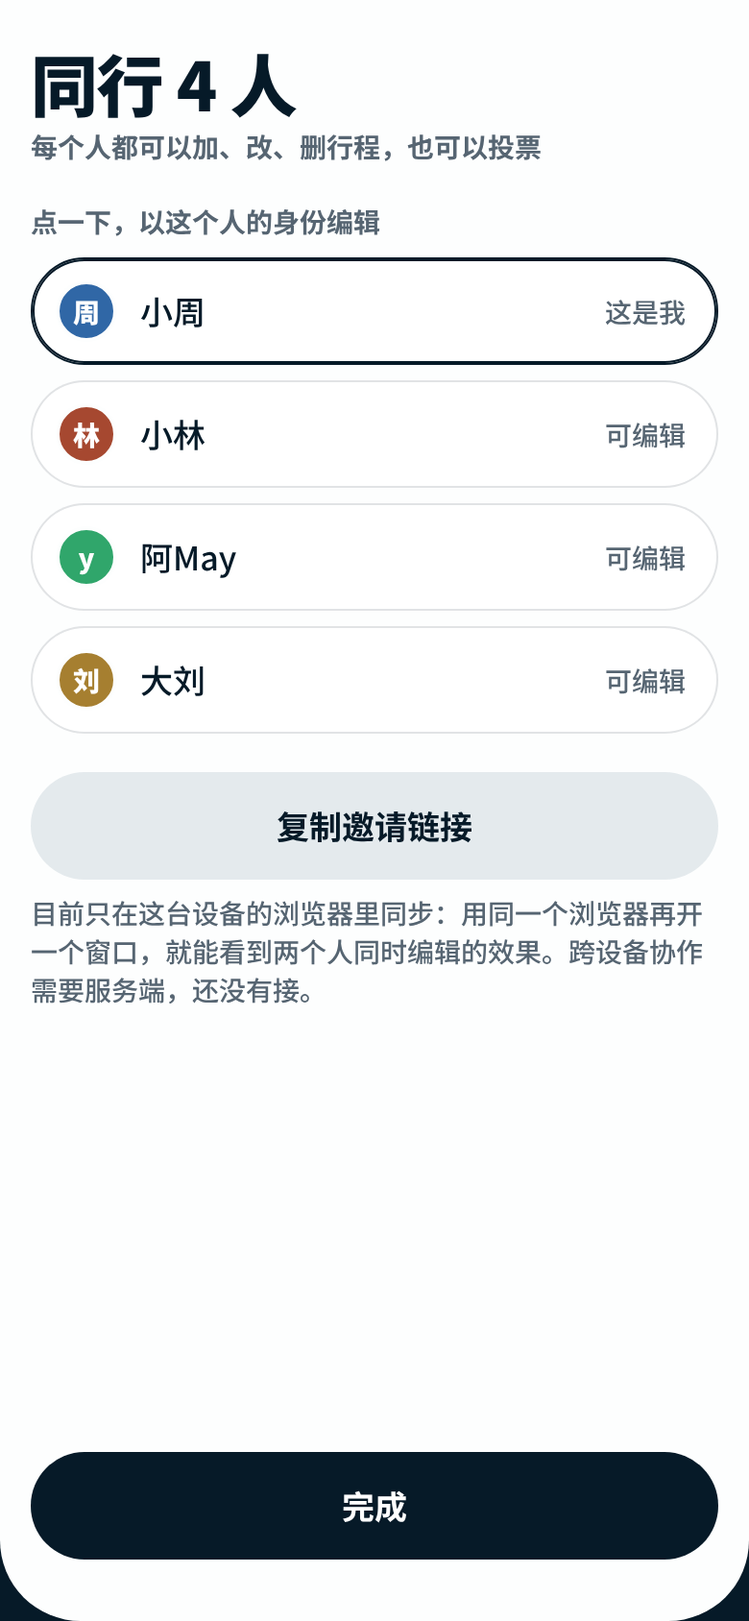
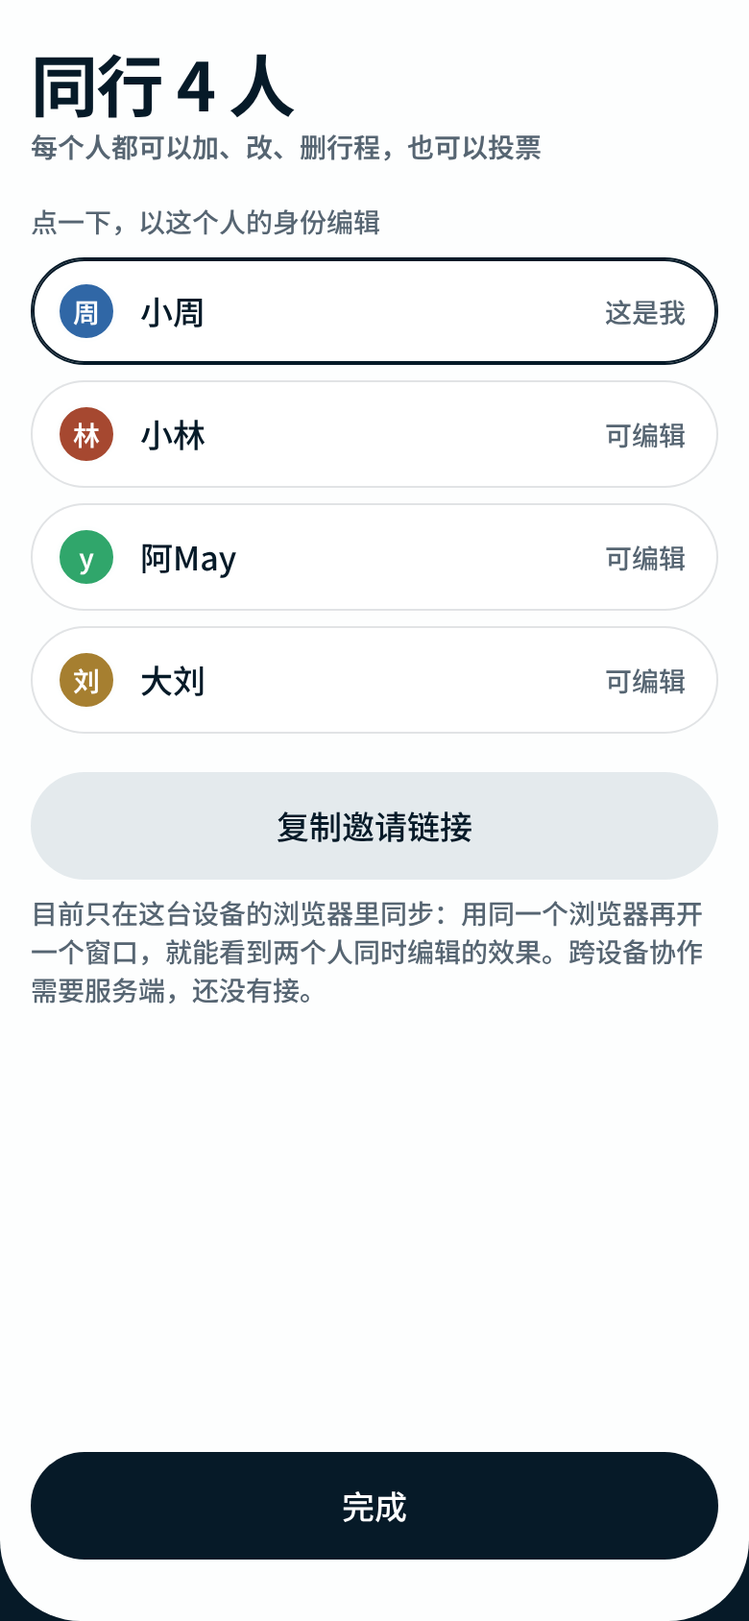
Add detail rules and apply them to both app runs
docs/design-details.md records eight fixed rules from design review:
concentric radii, one separator per surface, three-part dates, baseline
currency and units, scarce bold, one typeface per screen, real images
over stickers, and avatars.

gate-app now warns on border plus shadow on one element, heavy weights,
bold share above a quarter, and mixed serif and sans. Both runs are
adjusted until the warnings clear.

Claude-Session: https://claude.ai/code/session_015qE4q18Kjn7qFCdSSsLhYp

diff --git a/ui-workflow/runs/trip-together/app/ui/ui.css b/ui-workflow/runs/trip-together/app/ui/ui.css
@@ -7,7 +7,7 @@
   --card: var(--color-background-card); --chip: var(--color-background-muted);
   --line: color-mix(in srgb, var(--ink) 12%, transparent);
   --warm: #d9485f; --warm-2: #e08a3c; --sky: #7cc4ea;
-  --r-card: var(--radius-page); --r-thumb: var(--radius-container); --r-ctl: var(--radius-full);
+  --r-card: var(--radius-page); /* D01 同心：里层 = 外层 − 间距 */ --r-thumb: calc(var(--r-card) - var(--spacing-3)); --r-ctl: var(--radius-full);
   --dock: var(--ink); --on-dock: #fff;
   --ease: cubic-bezier(0.22, 1, 0.36, 1);
   height: 100dvh; display: flex; flex-direction: column; background: var(--dock); color: var(--ink);
@@ -21,21 +21,24 @@
 .t-page > .t-grow { flex-shrink: 1; }
 .t-dock { display: flex; justify-content: center; padding: var(--spacing-3) var(--spacing-4) calc(env(safe-area-inset-bottom, 0px) + var(--spacing-4)); }
 .t-switch { display: grid; grid-auto-flow: column; grid-auto-columns: 1fr; gap: var(--spacing-1); padding: var(--spacing-1); border-radius: var(--r-ctl); background: color-mix(in srgb, var(--on-dock) 10%, transparent); min-width: 60%; }
-.t-switch button { appearance: none; border: 0; background: none; min-height: var(--spacing-11); padding: 0 var(--spacing-5); border-radius: var(--r-ctl); color: var(--on-dock); font-weight: 700; display: flex; align-items: center; justify-content: center; gap: var(--spacing-2); }
+.t-switch button { appearance: none; border: 0; background: none; min-height: var(--spacing-11); padding: 0 var(--spacing-5); border-radius: var(--r-ctl); color: var(--on-dock); font-weight: 500; display: flex; align-items: center; justify-content: center; gap: var(--spacing-2); }
 .t-screen .t-switch button { color: var(--on-dock); }
 .t-screen .t-switch button[aria-current='page'] { background: var(--card); color: var(--ink); box-shadow: var(--shadow-low); }
-.t-switch b { font-weight: 700; font-size: var(--text-supporting-size); opacity: 0.75; }
+.t-switch b { font-weight: 500; font-size: var(--text-supporting-size); opacity: 0.75; }
 .t-stack { display: flex; flex-direction: column; }
 .t-row { display: flex; align-items: center; justify-content: space-between; gap: var(--spacing-3); }
 .t-grow { flex: 1; }
 
 /* 头部 */
-.t-title { margin: 0; font-size: var(--text-display-3-size); line-height: 1.1; font-weight: 900; letter-spacing: -0.02em; }
+.t-title { margin: 0; font-size: var(--text-display-3-size); line-height: 1.1; font-weight: 700; letter-spacing: -0.02em; }
 .t-sub { margin: 0; font-size: var(--text-supporting-size); font-weight: 600; color: var(--ink-2); }
-.t-h2 { margin: 0; font-size: var(--text-heading-3-size); line-height: 1.3; font-weight: 800; }
+.t-h2 { margin: 0; font-size: var(--text-heading-3-size); line-height: 1.3; font-weight: 600; }
 .t-note { margin: 0; font-size: var(--text-supporting-size); color: var(--ink-2); }
+.t-date { display: inline-flex; align-items: baseline; font-variant-numeric: tabular-nums; }
+.t-date i { font-style: normal; font-size: 0.8em; color: var(--ink-2); margin-inline: 2px; }
+.t-day[aria-pressed='true'] .t-date i { color: inherit; opacity: 0.7; }
 .t-avatars { appearance: none; border: 0; background: none; display: flex; align-items: center; padding: 0; min-height: var(--spacing-11); }
-.t-avatar { flex: none; display: grid; place-items: center; width: var(--spacing-8); height: var(--spacing-8); border-radius: 50%; font-size: var(--text-supporting-size); font-weight: 800; color: #fff; background: hsl(var(--hue) 55% 42%); border: 2px solid var(--color-background-body); margin-inline-start: calc(var(--spacing-2) * -1); }
+.t-avatar { flex: none; display: grid; place-items: center; width: var(--spacing-8); height: var(--spacing-8); border-radius: 50%; font-size: var(--text-supporting-size); font-weight: 600; color: #fff; background: hsl(var(--hue) 55% 42%); border: 2px solid var(--color-background-body); margin-inline-start: calc(var(--spacing-2) * -1); }
 .t-avatar:first-child { margin-inline-start: 0; }
 .t-avatar[data-size='sm'] { width: var(--spacing-6); height: var(--spacing-6); font-size: 0.6875rem; }
 .t-avatar[data-me='true'] { outline: 2px solid var(--ink); outline-offset: 1px; }
@@ -44,7 +47,7 @@
 
 /* 天 */
 .t-days { display: flex; gap: var(--spacing-2); overflow-x: auto; scrollbar-width: none; margin: 0 calc(var(--spacing-4) * -1); padding: 0 var(--spacing-4); }
-.t-day { appearance: none; flex: none; display: flex; flex-direction: column; align-items: center; justify-content: center; min-width: var(--spacing-12); min-height: calc(var(--spacing-7) * 2); padding: var(--spacing-1) var(--spacing-3); border-radius: var(--r-thumb); border: 1.5px solid var(--line); background: var(--card); font-weight: 800; line-height: 1.2; }
+.t-day { appearance: none; flex: none; display: flex; flex-direction: column; align-items: center; justify-content: center; min-width: var(--spacing-12); min-height: calc(var(--spacing-7) * 2); padding: var(--spacing-1) var(--spacing-3); border-radius: var(--r-thumb); border: 1.5px solid var(--line); background: var(--card); font-weight: 600; line-height: 1.2; }
 .t-day small { font-size: 0.6875rem; font-weight: 600; color: var(--ink-2); }
 .t-screen .t-day[aria-pressed='true'] { background: var(--ink); border-color: var(--ink); color: #fff; }
 .t-day[aria-pressed='true'] small { color: inherit; opacity: 0.8; }
@@ -52,34 +55,34 @@
 /* 路线：一条虚线把每一站串起来 */
 .t-route { position: relative; display: flex; flex-direction: column; gap: var(--spacing-2); }
 .t-route::before { content: ''; position: absolute; inset-block: var(--spacing-6); inset-inline-start: calc(var(--spacing-4) + var(--spacing-7)); border-inline-start: 2px dotted var(--line); }
-.t-stop { position: relative; appearance: none; text-align: start; display: flex; align-items: center; gap: var(--spacing-3); width: 100%; padding: var(--spacing-3) var(--spacing-4) var(--spacing-3) var(--spacing-3); border-radius: var(--r-card); border: 1.5px solid var(--line); background: var(--card); box-shadow: var(--shadow-low), inset 0 1px 0 #fff; transition: transform 0.25s var(--ease); }
+.t-stop { position: relative; appearance: none; text-align: start; display: flex; align-items: center; gap: var(--spacing-3); width: 100%; padding: var(--spacing-3) var(--spacing-4) var(--spacing-3) var(--spacing-3); border-radius: var(--r-card); border: 0; background: var(--card); box-shadow: var(--shadow-low); transition: transform 0.25s var(--ease); }
 .t-stop:active { transform: scale(0.985); }
 .t-thumb { position: relative; flex: none; width: calc(var(--spacing-8) * 2); height: calc(var(--spacing-8) * 2); border-radius: var(--r-thumb); background: var(--chip); display: grid; place-items: center; }
-.t-thumb i { position: absolute; inset-block-end: calc(var(--spacing-1) * -1); inset-inline-end: calc(var(--spacing-1) * -1); display: grid; place-items: center; width: var(--spacing-6); height: var(--spacing-6); border-radius: 50%; background: var(--ink); color: #fff; font-style: normal; font-size: 0.75rem; font-weight: 800; border: 2px solid var(--card); }
+.t-thumb i { position: absolute; inset-block-end: calc(var(--spacing-1) * -1); inset-inline-end: calc(var(--spacing-1) * -1); display: grid; place-items: center; width: var(--spacing-6); height: var(--spacing-6); border-radius: 50%; background: var(--ink); color: #fff; font-style: normal; font-size: 0.75rem; font-weight: 600; border: 2px solid var(--card); }
 .t-stop-main { flex: 1; min-width: 0; display: flex; flex-direction: column; gap: var(--spacing-0-5); }
-.t-name { margin: 0; font-size: var(--text-large-size); font-weight: 800; line-height: 1.25; }
-.t-time { font-size: var(--text-supporting-size); font-weight: 700; color: var(--ink-2); text-decoration: underline; text-underline-offset: 0.2em; font-variant-numeric: tabular-nums; }
+.t-name { margin: 0; font-size: var(--text-large-size); font-weight: 600; line-height: 1.25; }
+.t-time { font-size: var(--text-supporting-size); font-weight: 500; color: var(--ink-2); text-decoration: underline; text-underline-offset: 0.2em; font-variant-numeric: tabular-nums; }
 .t-stop-note { margin: 0; font-size: var(--text-supporting-size); color: var(--ink-2); overflow: hidden; text-overflow: ellipsis; white-space: nowrap; }
 .t-gap { position: relative; display: flex; align-items: center; gap: var(--spacing-2); padding-inline-start: calc(var(--spacing-4) + var(--spacing-1-5)); }
 .t-plus { appearance: none; display: grid; place-items: center; width: var(--spacing-11); height: var(--spacing-11); border: 0; background: none; padding: 0; }
-.t-plus i { display: grid; place-items: center; width: var(--spacing-8); height: var(--spacing-8); border-radius: var(--radius-element); border: 1.5px solid var(--line); background: var(--card); box-shadow: var(--shadow-low); }
+.t-plus i { display: grid; place-items: center; width: var(--spacing-8); height: var(--spacing-8); border-radius: var(--radius-element); border: 1.5px solid var(--line); background: var(--card); }
 .t-empty { display: flex; flex-direction: column; align-items: flex-start; gap: var(--spacing-3); padding: var(--spacing-6) var(--spacing-2); }
 
 /* 想去：虚线卡，名字用暖色 */
 .t-idea { display: flex; flex-direction: column; gap: var(--spacing-3); padding: var(--spacing-4); border-radius: var(--r-card); border: 1.5px dashed color-mix(in srgb, var(--ink) 28%, transparent); background: var(--card); }
 .t-idea-head { display: flex; align-items: center; gap: var(--spacing-3); }
 .t-idea .t-name { background: linear-gradient(90deg, var(--warm), var(--warm-2)); -webkit-background-clip: text; background-clip: text; color: transparent; }
-.t-votes { display: flex; align-items: center; gap: var(--spacing-2); white-space: nowrap; font-size: var(--text-supporting-size); font-weight: 700; color: var(--ink-2); }
+.t-votes { display: flex; align-items: center; gap: var(--spacing-2); white-space: nowrap; font-size: var(--text-supporting-size); font-weight: 500; color: var(--ink-2); }
 .t-actions { display: grid; grid-template-columns: 1fr 1fr; gap: var(--spacing-2); }
-.t-pill { appearance: none; justify-content: center; white-space: nowrap; min-height: var(--spacing-11); padding: 0 var(--spacing-4); border-radius: var(--r-ctl); border: 1.5px solid var(--line); background: var(--card); font-weight: 700; font-size: var(--text-supporting-size); display: inline-flex; align-items: center; gap: var(--spacing-1-5); box-shadow: var(--shadow-low); }
+.t-pill { appearance: none; justify-content: center; white-space: nowrap; min-height: var(--spacing-11); padding: 0 var(--spacing-4); border-radius: var(--r-ctl); border: 1.5px solid var(--line); background: var(--card); font-weight: 500; font-size: var(--text-supporting-size); display: inline-flex; align-items: center; gap: var(--spacing-1-5); }
 .t-screen .t-pill[aria-pressed='true'] { background: var(--ink); border-color: var(--ink); color: #fff; }
-.t-icon { appearance: none; flex: none; display: grid; place-items: center; width: var(--spacing-11); height: var(--spacing-11); border-radius: var(--radius-element); border: 1.5px solid var(--line); background: var(--card); box-shadow: var(--shadow-low); }
+.t-icon { appearance: none; flex: none; display: grid; place-items: center; width: var(--spacing-11); height: var(--spacing-11); border-radius: var(--radius-element); border: 1.5px solid var(--line); background: var(--card); }
 .t-kinds { display: flex; gap: var(--spacing-2); flex-wrap: wrap; }
-.t-kind { appearance: none; display: flex; align-items: center; gap: var(--spacing-1-5); min-height: var(--spacing-11); padding: 0 var(--spacing-3) 0 var(--spacing-2); border-radius: var(--r-ctl); border: 1.5px solid var(--line); background: var(--card); font-weight: 700; font-size: var(--text-supporting-size); }
+.t-kind { appearance: none; display: flex; align-items: center; gap: var(--spacing-1-5); min-height: var(--spacing-11); padding: 0 var(--spacing-3) 0 var(--spacing-2); border-radius: var(--r-ctl); border: 1.5px solid var(--line); background: var(--card); font-weight: 500; font-size: var(--text-supporting-size); }
 .t-screen .t-kind[aria-pressed='true'] { background: var(--ink); border-color: var(--ink); color: #fff; }
-.t-label { margin: 0; font-size: var(--text-supporting-size); font-weight: 700; color: var(--ink-2); }
+.t-label { margin: 0; font-size: var(--text-supporting-size); font-weight: 500; color: var(--ink-2); }
 .t-people { list-style: none; margin: 0; padding: 0; display: flex; flex-direction: column; gap: var(--spacing-2); }
-.t-person { appearance: none; text-align: start; width: 100%; display: flex; align-items: center; gap: var(--spacing-3); min-height: calc(var(--spacing-7) * 2); padding: var(--spacing-2) var(--spacing-4) var(--spacing-2) var(--spacing-3); border-radius: var(--r-card); border: 1.5px solid var(--line); background: var(--card); font-weight: 700; }
+.t-person { appearance: none; text-align: start; width: 100%; display: flex; align-items: center; gap: var(--spacing-3); min-height: calc(var(--spacing-7) * 2); padding: var(--spacing-2) var(--spacing-4) var(--spacing-2) var(--spacing-3); border-radius: var(--r-card); border: 1.5px solid var(--line); background: var(--card); font-weight: 500; }
 .t-person[aria-pressed='true'] { border-color: var(--ink); box-shadow: inset 0 0 0 1px var(--ink); }
 .t-person em { margin-inline-start: auto; font-style: normal; font-size: var(--text-supporting-size); color: var(--ink-2); }
 .t-sticker { display: block; flex: none; }

diff --git a/ui-workflow/runs/driving-quiz/app/ui/ui.css b/ui-workflow/runs/driving-quiz/app/ui/ui.css
@@ -2,7 +2,7 @@
    参考 Mobbin 上 Commons 的答题屏，颜色量自高清图，写在 theme/theme.ts。
    规范用 Astryx：间距 --spacing-*、圆角 --radius-*、字号 --text-*-size。这里不出现刻度以外的尺寸。 */
 .q-screen {
-  --serif: 'Noto Serif SC', 'Songti SC', serif;
+  --serif: var(--sans); /* D06：一屏一种字体，不混排衬线 */
   --sans: 'Noto Sans SC', system-ui, -apple-system, sans-serif;
   font-family: var(--sans);
   --ink: var(--color-text-primary);
@@ -24,7 +24,7 @@
 /* 章节 */
 .q-chapters { display: flex; gap: var(--spacing-2); overflow-x: auto; scrollbar-width: none; margin: 0 calc(var(--spacing-4) * -1); padding: 0 var(--spacing-4); }
 .q-chapter { appearance: none; font: inherit; cursor: pointer; flex: none; display: flex; align-items: center; gap: var(--spacing-2); min-height: var(--spacing-11); padding: var(--spacing-1) var(--spacing-3) var(--spacing-1) var(--spacing-2); border: 0; border-radius: var(--radius-container); background: var(--block); color: var(--ink); font-size: var(--text-supporting-size); font-weight: 600; white-space: nowrap; }
-.q-chapter b { font-weight: 600; font-variant-numeric: tabular-nums; color: var(--ink-2); }
+.q-chapter b { font-weight: 500; font-variant-numeric: tabular-nums; color: var(--ink-2); }
 .q-chapter[aria-pressed='true'] { background: var(--ink); color: var(--color-background-body); }
 .q-chapter[aria-pressed='true'] b { color: inherit; }
 
@@ -33,9 +33,9 @@
 .q-bar > i { display: block; height: 100%; border-radius: inherit; background: var(--color-accent); transition: width 0.5s var(--ease); }
 
 /* 题 */
-.q-count { margin: 0; font-size: var(--text-supporting-size); font-weight: 700; letter-spacing: 0.06em; color: var(--ink-2); font-variant-numeric: tabular-nums; }
-.q-text { margin: 0; font-size: var(--text-heading-1-size); line-height: 1.24; font-weight: 900; letter-spacing: -0.02em; text-wrap: pretty; }
-.q-text[data-size='title'] { font-size: var(--text-heading-3-size); line-height: 1.4; font-weight: 700; letter-spacing: -0.01em; }
+.q-count { margin: 0; font-size: var(--text-supporting-size); font-weight: 500; letter-spacing: 0.06em; color: var(--ink-2); font-variant-numeric: tabular-nums; }
+.q-text { margin: 0; font-size: var(--text-heading-1-size); line-height: 1.3; font-weight: 600; letter-spacing: -0.02em; text-wrap: pretty; }
+.q-text[data-size='title'] { font-size: var(--text-heading-3-size); line-height: 1.4; font-weight: 600; letter-spacing: -0.01em; }
 .q-enter { animation: q-in 0.4s var(--ease); }
 @keyframes q-in { from { opacity: 0; transform: translateY(var(--spacing-2)); } }
 
@@ -43,9 +43,9 @@
 .q-plates { display: flex; flex-direction: column; gap: var(--spacing-3); }
 .q-plate { appearance: none; text-align: start; cursor: pointer; display: flex; align-items: baseline; gap: var(--spacing-3); min-height: calc(var(--spacing-7) * 2); padding: var(--spacing-4); border: 0; border-radius: var(--radius-container); background: var(--block); color: var(--ink); font-family: var(--serif); font-size: var(--text-large-size); line-height: 1.4; transition: transform 0.25s var(--ease), background 0.2s, color 0.2s; }
 .q-plate:active:not(:disabled) { transform: scale(0.985); }
-.q-plate i { flex: none; font-style: normal; font-family: var(--sans); font-size: var(--text-supporting-size); font-weight: 900; color: var(--ink-2); }
+.q-plate i { flex: none; font-style: normal; font-family: var(--sans); font-size: var(--text-supporting-size); font-weight: 500; color: var(--ink-2); }
 .q-plate span { flex: 1; }
-.q-plate em { flex: none; font-style: normal; font-family: var(--sans); font-size: var(--text-supporting-size); font-weight: 700; }
+.q-plate em { flex: none; font-style: normal; font-family: var(--sans); font-size: var(--text-supporting-size); font-weight: 500; }
 .q-plate[data-state='right'] { background: var(--ink); color: var(--color-background-body); }
 .q-plate[data-state='right'] i { color: inherit; }
 .q-plate[data-state='wrong'] { background: var(--color-error-muted); }
@@ -58,25 +58,25 @@
 .q-why p { margin: 0; }
 
 /* 按钮 */
-.q-btn { appearance: none; font: inherit; cursor: pointer; width: 100%; min-height: calc(var(--spacing-7) * 2); padding: 0 var(--spacing-6); border: 0; border-radius: var(--radius-container); background: var(--ink); color: var(--color-background-body); font-size: var(--text-body-size); font-weight: 700; transition: transform 0.25s var(--ease); }
+.q-btn { appearance: none; font: inherit; cursor: pointer; width: 100%; min-height: calc(var(--spacing-7) * 2); padding: 0 var(--spacing-6); border: 0; border-radius: var(--radius-container); background: var(--ink); color: var(--color-background-body); font-size: var(--text-body-size); font-weight: 500; transition: transform 0.25s var(--ease); }
 .q-btn:active { transform: scale(0.985); }
 .q-btn[data-kind='quiet'] { background: var(--block); color: var(--ink); }
 .q-link { appearance: none; font: inherit; cursor: pointer; border: 0; background: none; color: var(--ink-2); min-height: var(--spacing-11); padding: 0 var(--spacing-2); font-size: var(--text-supporting-size); font-weight: 600; text-decoration: underline; text-underline-offset: 0.2em; }
 .q-screen button:focus-visible { outline: 2px solid var(--color-accent); outline-offset: 2px; }
 
 /* 标题与说明 */
-.q-title { margin: 0; font-size: var(--text-display-3-size); line-height: 1.12; font-weight: 900; letter-spacing: -0.03em; }
+.q-title { margin: 0; font-size: var(--text-display-3-size); line-height: 1.12; font-weight: 700; letter-spacing: -0.03em; }
 .q-note { margin: 0; font-size: var(--text-supporting-size); line-height: 1.5; color: var(--ink-2); }
 .q-body { margin: 0; font-family: var(--serif); font-size: var(--text-large-size); line-height: 1.5; }
 .q-hero { display: flex; flex-direction: column; align-items: flex-start; gap: var(--spacing-4); }
 .q-facts { list-style: none; margin: 0; padding: 0; display: flex; flex-direction: column; border-top: 2px solid var(--ink); }
 .q-facts li { display: flex; justify-content: space-between; gap: var(--spacing-3); padding: var(--spacing-3) 0; border-bottom: 1px solid var(--line); }
 .q-facts span { color: var(--ink-2); }
-.q-facts b { font-weight: 900; font-variant-numeric: tabular-nums; }
+.q-facts b { font-weight: 700; font-variant-numeric: tabular-nums; }
 
 /* 答卷 */
 .q-sheet-head { display: flex; align-items: center; justify-content: space-between; }
-.q-timer { font-size: var(--text-heading-3-size); font-weight: 900; font-variant-numeric: tabular-nums; }
+.q-timer { font-size: var(--text-heading-3-size); font-weight: 700; font-variant-numeric: tabular-nums; }
 .q-options { display: flex; flex-direction: column; border-top: 2px solid var(--ink); }
 .q-option { appearance: none; text-align: start; cursor: pointer; display: flex; align-items: center; gap: var(--spacing-3); min-height: calc(var(--spacing-7) * 2); padding: var(--spacing-3) 0; border: 0; border-bottom: 1px solid var(--line); background: none; color: var(--ink); font-family: var(--serif); font-size: var(--text-large-size); line-height: 1.4; }
 .q-option i { flex: none; width: var(--spacing-5); height: var(--spacing-5); border-radius: 50%; border: 2px solid var(--ink); }
@@ -85,9 +85,9 @@
 .q-nav { display: grid; grid-template-columns: 1fr 2fr; gap: var(--spacing-3); padding: var(--spacing-3) var(--spacing-4) calc(env(safe-area-inset-bottom, 0px) + var(--spacing-4)); }
 
 /* 成绩 */
-.q-score { margin: 0; font-size: var(--text-display-1-size); line-height: 1; font-weight: 900; font-variant-numeric: tabular-nums; letter-spacing: -0.04em; }
+.q-score { margin: 0; font-size: var(--text-display-1-size); line-height: 1; font-weight: 700; font-variant-numeric: tabular-nums; letter-spacing: -0.04em; }
 .q-score small { font-size: var(--text-heading-3-size); font-weight: 700; letter-spacing: 0; color: var(--ink-2); }
-.q-stamp { display: inline-block; padding: var(--spacing-1) var(--spacing-3); border-radius: var(--radius-element); font-size: var(--text-body-size); font-weight: 900; letter-spacing: 0.1em; }
+.q-stamp { display: inline-block; padding: var(--spacing-1) var(--spacing-3); border-radius: var(--radius-element); font-size: var(--text-body-size); font-weight: 700; letter-spacing: 0.1em; }
 .q-stamp[data-pass='true'] { background: var(--ink); color: var(--color-background-body); }
 .q-stamp[data-pass='false'] { background: var(--color-error-muted); color: var(--ink); }
 .q-list { list-style: none; margin: 0; padding: 0; border-top: 2px solid var(--ink); }
@@ -98,6 +98,6 @@
 /* 悬浮胶囊底栏：形态沿用现有外壳，只换颜色 */
 .q-tabs-wrap { padding: 0 var(--spacing-4) calc(env(safe-area-inset-bottom, 0px) + var(--spacing-4)); }
 .q-tabs { display: grid; grid-auto-flow: column; grid-auto-columns: 1fr; gap: var(--spacing-1); padding: var(--spacing-1); border-radius: var(--radius-full); background: var(--color-background-card, #fff); box-shadow: var(--shadow-med); }
-.q-tab { appearance: none; font: inherit; cursor: pointer; display: flex; flex-direction: column; align-items: center; justify-content: center; gap: var(--spacing-0-5); min-height: var(--spacing-12); border: 0; border-radius: var(--radius-full); background: none; color: var(--ink-2); font-size: var(--text-supporting-size); font-weight: 700; }
+.q-tab { appearance: none; font: inherit; cursor: pointer; display: flex; flex-direction: column; align-items: center; justify-content: center; gap: var(--spacing-0-5); min-height: var(--spacing-12); border: 0; border-radius: var(--radius-full); background: none; color: var(--ink-2); font-size: var(--text-supporting-size); font-weight: 500; }
 .q-tab[aria-current='page'] { background: var(--ink); color: var(--color-background-body); }
 @media (prefers-reduced-motion: reduce) { .q-enter { animation: none; } .q-plate, .q-btn, .q-bar > i { transition: none; } }

diff --git a/ui-workflow/runs/trip-together/app/ui/index.tsx b/ui-workflow/runs/trip-together/app/ui/index.tsx
@@ -2,8 +2,8 @@
 import type {ReactNode} from 'react';
 import {Plus} from 'lucide-react';
 import '@fontsource/noto-sans-sc/500.css';
+import '@fontsource/noto-sans-sc/600.css';
 import '@fontsource/noto-sans-sc/700.css';
-import '@fontsource/noto-sans-sc/900.css';
 import {STICKERS} from '../stickers';
 import type {StickerName} from '../stickers';
 import type {Member} from '../data/seed';
@@ -44,6 +44,17 @@ export const Enter = ({id, children}: {id: string; children: ReactNode}) => (
     {children}
   </div>
 );
+/** D03 日期分三段：分隔符小一档、次级色、两侧 2px */
+export const DateNum = ({value}: {value: string}) => {
+  const [m, d] = value.split('/');
+  return (
+    <span className="t-date" aria-label={`${m} 月 ${d} 日`}>
+      {m}
+      <i>/</i>
+      {d}
+    </span>
+  );
+};
 export const Title = ({children}: {children: ReactNode}) => <h1 className="t-title">{children}</h1>;
 export const Sub = ({children}: {children: ReactNode}) => <p className="t-sub">{children}</p>;
 export const H2 = ({children}: {children: ReactNode}) => <h2 className="t-h2">{children}</h2>;
@@ -77,7 +88,7 @@ export function Days({items, active, onPick}: {items: {day: number; short: strin
     <div className="t-days">
       {items.map((d) => (
         <button key={d.day} type="button" className="t-day" aria-pressed={d.day === active} aria-label={`第 ${d.day} 天，${d.short}，${d.count} 站`} onClick={() => onPick(d.day)}>
-          {d.short}
+          <DateNum value={d.short} />
           <small>{d.week}</small>
         </button>
       ))}

diff --git a/ui-workflow/runs/trip-together/app/screens/Plan.tsx b/ui-workflow/runs/trip-together/app/screens/Plan.tsx
@@ -2,8 +2,8 @@
 import {Button} from '@astryxdesign/core/Button';
 import {KINDS} from '../data/seed';
 import type {Trip} from '../data/seed';
-import {dayLabel, member, range, stopsOf} from '../logic/trip';
-import {Avatars, Days, Empty, Enter, Gap, H2, Note, Pulse, Route, Row, Screen, Stack, Sticker, StopCard, Sub, Title} from '../ui';
+import {dayLabel, member, stopsOf} from '../logic/trip';
+import {Avatars, DateNum, Days, Empty, Enter, Gap, H2, Note, Pulse, Route, Row, Screen, Stack, Sticker, StopCard, Sub, Title} from '../ui';
 import type {View} from '../ui';
 
 const sticker = (kind: string) => KINDS.find((k) => k.id === kind)?.sticker ?? 'round-pushpin';
@@ -25,7 +25,9 @@ export function Plan({trip, day, onDay, onView, onMembers, onStop, onAdd}: {trip
         <Row>
           <Stack gap={1}>
             <Title>{trip.name}</Title>
-            <Sub>{range(trip)}</Sub>
+            <Sub>
+              <DateNum value={dayLabel(trip, 1).short} /> – <DateNum value={dayLabel(trip, trip.days).short} /> · {trip.days} 天
+            </Sub>
           </Stack>
           <Avatars members={trip.members} onPress={onMembers} />
         </Row>

diff --git a/ui-workflow/runs/driving-quiz/app/ui/index.tsx b/ui-workflow/runs/driving-quiz/app/ui/index.tsx
@@ -5,10 +5,9 @@ import {STICKERS} from '../stickers';
 import type {StickerName} from '../stickers';
 // 字体随应用打包，保证每台手机上看到的是同一套字
 import '@fontsource/noto-sans-sc/400.css';
+import '@fontsource/noto-sans-sc/500.css';
+import '@fontsource/noto-sans-sc/600.css';
 import '@fontsource/noto-sans-sc/700.css';
-import '@fontsource/noto-sans-sc/900.css';
-import '@fontsource/noto-serif-sc/500.css';
-import '@fontsource/noto-serif-sc/700.css';
 import './ui.css';
 
 export type Tab = 'practice' | 'mock' | 'mistakes';

diff --git a/ui-workflow/runs/trip-together/theme/theme.ts b/ui-workflow/runs/trip-together/theme/theme.ts
@@ -18,6 +18,6 @@ export const theme = defineTheme({
     '--shadow-med': '0 2px 4px rgba(6,26,40,0.06), 0 14px 32px rgba(6,26,40,0.12)',
   },
   components: {
-    button: {base: {borderRadius: 'var(--radius-full)', minHeight: 'var(--spacing-11)', fontWeight: 'var(--font-weight-semibold)'}, 'size:lg': {minHeight: 'calc(var(--spacing-7) * 2)'}},
+    button: {base: {borderRadius: 'var(--radius-full)', minHeight: 'var(--spacing-11)', fontWeight: 'var(--font-weight-medium)'}, 'size:lg': {minHeight: 'calc(var(--spacing-7) * 2)'}},
   },
 });

diff --git a/ui-workflow/docs/design-details.md b/ui-workflow/docs/design-details.md
@@ -1,0 +1,87 @@
+# 细节规则：圆角、边界、数字、字重、字体、图片
+
+这些规则是“死”的：不需要品味，照做就对，大部分可以自动检查。
+来源：设计师对 trip-together 和 driving-quiz 两次产出的反馈（2026-11-12）。写法沿用 apps-builder 设计经验的格式。
+里面的具体数值（2px、小一档）是这位设计师给的做法，换团队可以改数值，规则本身不变。
+
+---
+
+## D01 · 圆角嵌套要同心
+
+- **问题**：卡片圆角 42，里面的缩略图圆角 18，两条弧线不平行，角上看着是歪的。
+- **规则**：里层圆角 = 外层圆角 − 两者之间的间距。算出来小于 4 就用 4 或直角。
+- **例子**：外层 42、间距 12 → 里层 30。外层 24、间距 16 → 里层 8。
+- **例外**：外层是胶囊（全圆）时，里层也用全圆或正圆；里层不贴边（四周间距明显大于圆角）时不必同心。
+- **自查**：找出每一处“圆角里套圆角”，逐个算一遍。
+- **自动检查**：可以。量父子元素的圆角和间距，差值超过 2 报警。
+
+## D02 · 一块东西只用一种方式和背景分开
+
+- **问题**：卡片同时有底色、描边和阴影，显得脏、显得重，而且每张卡都这样就成了“一定会有描边”。
+- **规则**：底色差、阴影、描边三选一。
+  | 情况 | 用什么 |
+  |---|---|
+  | 白卡在灰底上 | 只靠底色差，不描边、不加阴影 |
+  | 白卡在白底上 | 轻阴影，或一条细线，只选一个 |
+  | 浮在内容上方的东西（弹层、悬浮栏） | 阴影 |
+  | 可选中的小控件（未选中的标签、日期格） | 细描边，不加阴影 |
+- **例外**：虚线边框是一种状态（未确定、建议、待添加），不算装饰，可以单独使用。
+- **自查**：逐个看每种容器，数它用了几种分隔手段。
+- **自动检查**：可以。同一个元素同时有可见边框和阴影就报警。
+
+## D03 · 日期分三段排，不整段打出来
+
+- **问题**：“11/20”“11月3号”当成一串普通文字打，数字和分隔符一样大一样重，不精致。
+- **规则**：月、分隔符、日是三段。分隔符的字号比数字小一档、颜色用次级色；分隔符两侧各留 2px；数字用等宽数字。
+- **例外**：写在句子里的日期（“11 月 20 日出发”）照常写。
+- **自动检查**：部分可以。查界面文字里有没有整段的 `数字/数字`。
+
+## D04 · 货币符号和单位跟数字底对齐、小一档
+
+- **问题**：“¥128”“3 天”把符号、单位和数字用同一个字号一起打。
+- **规则**：符号和单位比数字小一档，和数字**基线对齐**（不是顶对齐，也不是居中），与数字间距 2px；单位用次级色。
+- **例外**：正文句子里的金额照常写。
+- **自动检查**：部分可以。查大号数字旁边有没有同字号的 ¥、$、%、“个 / 天 / 题”。
+
+## D05 · 粗体是稀缺的
+
+- **问题**：标题、卡片名、按钮、标签全是粗黑体，满屏都在喊，反而没有重点。
+- **规则**：
+  | 用途 | 字重 |
+  |---|---|
+  | 正文、说明 | 常规（400） |
+  | 标题、卡片名、按钮 | 比常规稍重（500 或 600） |
+  | 全屏的主角（一处） | 粗（700） |
+  不用 800、900。一屏里粗体的文字不超过一处，面积不超过首屏文字的一成。
+- **例外**：数字主角（倒计时、金额、分数）可以用粗；品牌标志不受限。
+- **自动检查**：可以。统计可见文字里字重 ≥ 700 的占比，超过阈值报警；出现 800 以上直接报错。
+
+## D06 · 一屏一种字体，衬线和无衬线不混排
+
+- **问题**：题干用黑体、选项用宋体，两种字体大面积交替出现。
+- **规则**：一个界面只用一个字体家族。衬线体、手写体、装饰体只允许用在一处小面积上（品牌字、一个大数字、一句引语），不用于正文、选项、列表、按钮。
+- **例外**：内容本身是引文或诗文的阅读类产品，正文可以整体用衬线，那时其他地方不再混入无衬线的大标题。
+- **自动检查**：可以。统计可见文字里衬线与无衬线各占多少，两边都超过一成就报警。
+
+## D07 · 有图就用真图，没有图就空着
+
+- **问题**：用表情贴纸顶替地点图片，所有景点都是同一个鸟居。
+- **规则**：
+  1. 内容对象（地点、商品、菜、作品）需要图时，先检索真实图片。
+  2. 检索到的图要核对是不是这个对象，再按图位的比例裁切。
+  3. 检索不到就留空占位，并保留“暂无图片”的可读标签，不用表情或色块假装有图。
+  4. 表情贴纸只做小装饰（类型标记、空状态、奖励），不顶替内容图。
+- **注意**：检索来的图有版权，只能用允许使用的来源，并保留出处。
+- **自动检查**：部分可以。查内容图位里是不是放了贴纸。
+
+## D08 · 头像用真实的，没有就用首字
+
+- **规则**：用户自己上传或平台账号已有的头像，直接用。没有时用“名字的一个字 + 一个固定颜色”，或者一套授权的插画头像。
+- **不做**：不从网上找真人照片来当示例用户的头像。那是别人的肖像，不能拿来用。
+- **自动检查**：不需要。
+
+---
+
+## 哪些已经进了自动检查
+
+`scripts/gate-app.mjs` 在每一屏截图时会查 D02、D05、D06，结果以 `detail` 开头，目前是警告不是报错：阈值是第一次定，需要设计师看几轮再收紧。D01、D03、D04 靠界面零件保证（见 `runs/trip-together/app/ui` 里的 `DateNum` 和同心圆角的写法），还没有做成检查。
